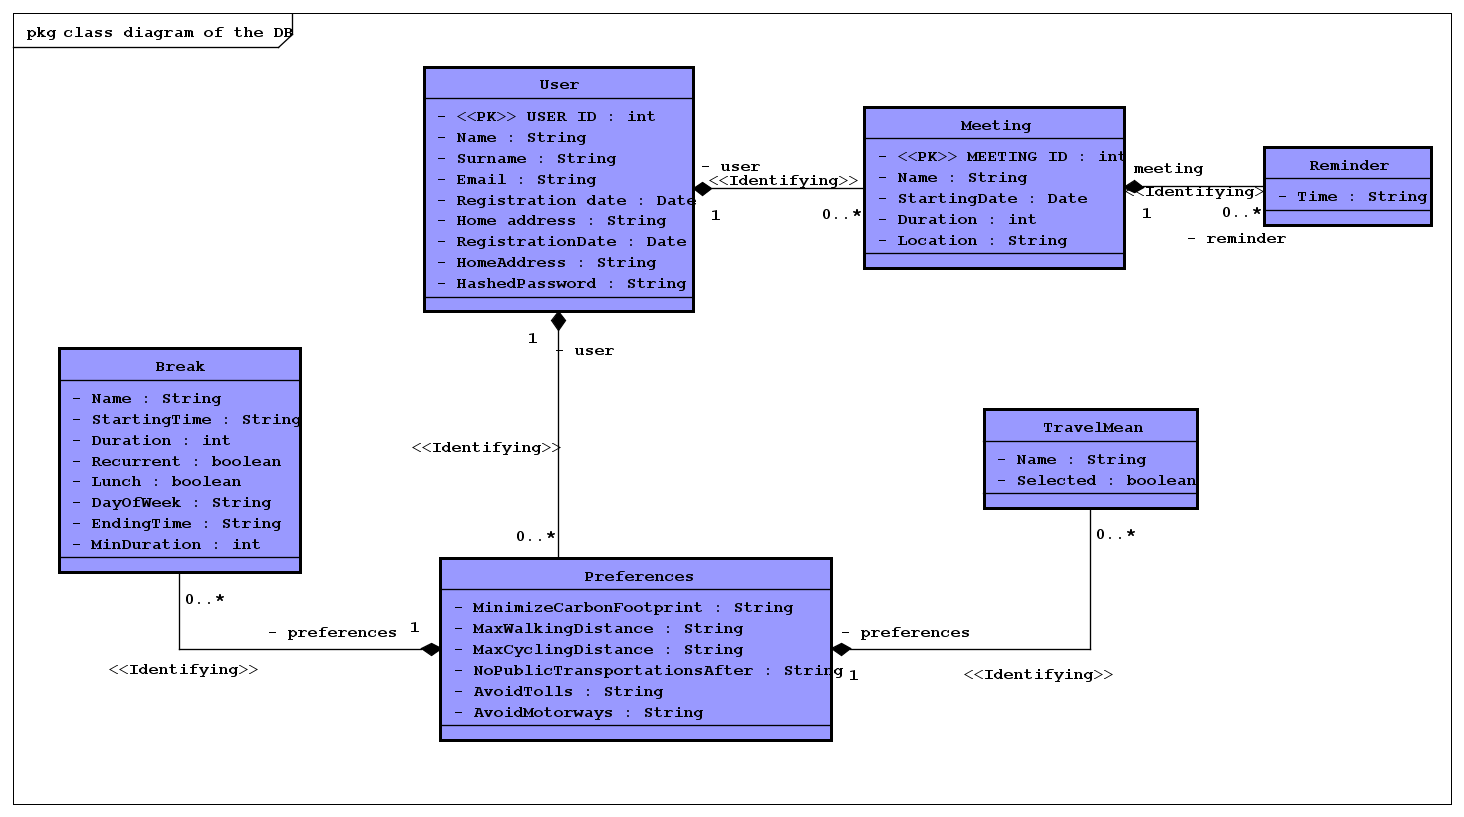
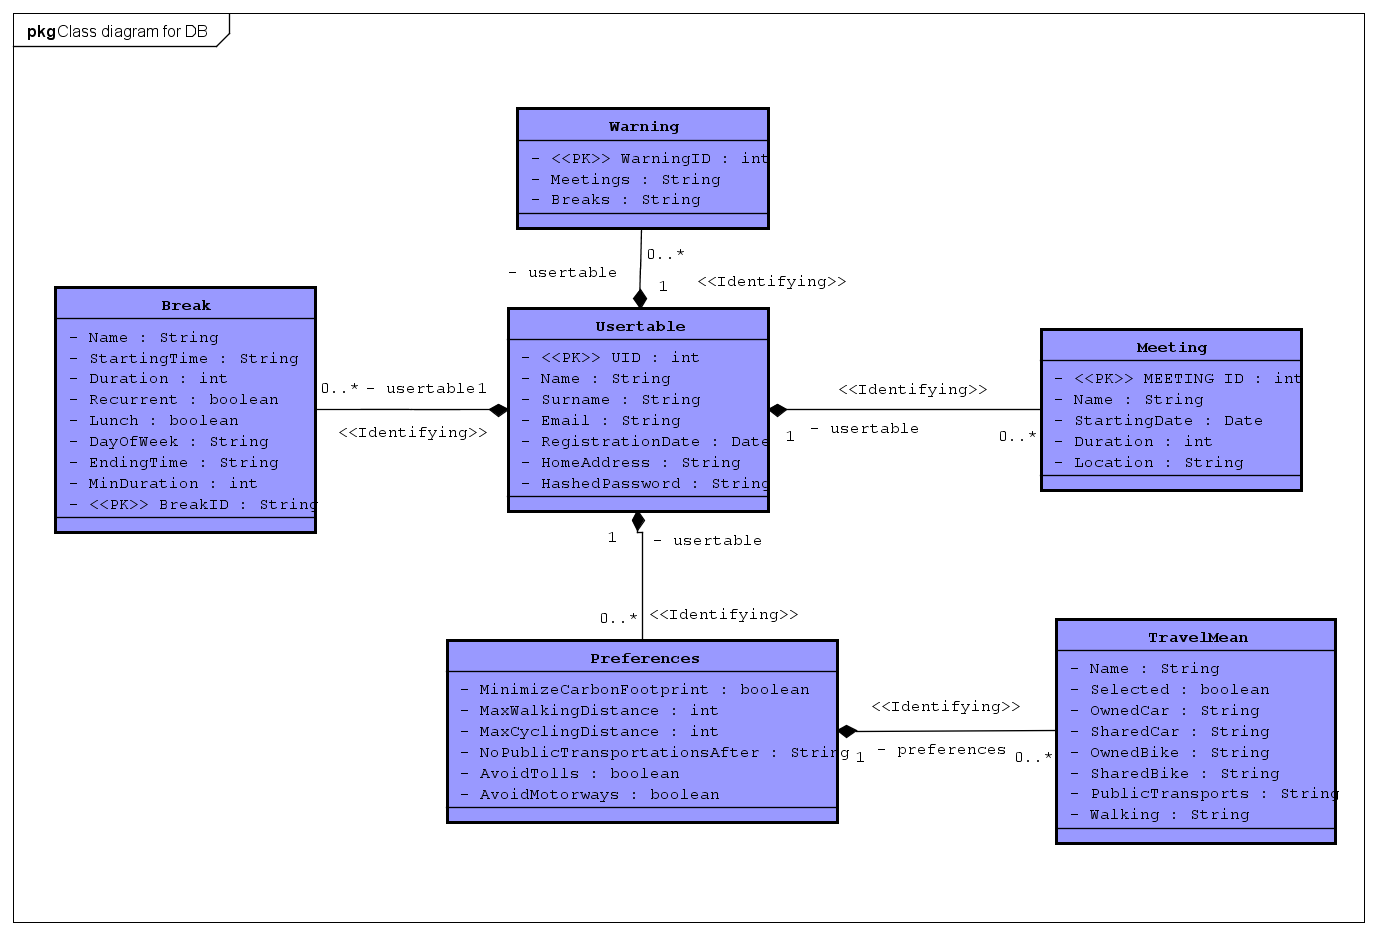
MODIFIED database ER in DD document

diff --git a/Travlendar/src/java/servlets/loginservlet.java b/Travlendar/src/java/servlets/loginservlet.java
@@ -8,9 +8,8 @@ package servlets;
 import entities.Break;
 import entities.Meeting;
 import entities.Usertable;
+import entities.Warning;
 import java.io.IOException;
-import java.io.PrintWriter;
-import java.time.LocalDate;
 import java.util.Calendar;
 import java.util.Date;
 import java.util.List;
@@ -23,6 +22,7 @@ import javax.servlet.http.HttpSession;
 import sessionbeans.BreakFacadeLocal;
 import sessionbeans.MeetingFacadeLocal;
 import sessionbeans.UsertableFacadeLocal;
+import sessionbeans.WarningFacadeLocal;
 import utils.SecureHashEncryption;
 
 /**
@@ -30,6 +30,9 @@ import utils.SecureHashEncryption;
  * @author Mirko
  */
 public class loginservlet extends HttpServlet {
+
+    @EJB
+    private WarningFacadeLocal warningFacade;
 
     private final static int breaksPrecomputation=8;
 
@@ -41,6 +44,8 @@ public class loginservlet extends HttpServlet {
 
     @EJB
     private UsertableFacadeLocal userFacade;
+    
+    
 
     /**
      * Processes requests for both HTTP <code>GET</code> and <code>POST</code>
@@ -81,18 +86,27 @@ public class loginservlet extends HttpServlet {
                 session.setAttribute("name", u.getName());
 
                 session.setAttribute("user", u);
+                
+                //WHEN THE USER LOGS IN WE HAVE TO CHECK WHETHER THERE ARE WARNINGS, IF THERE ARE EXECUTE THIS LINE
+                
+                List<Warning> warnings = warningFacade.getWarningsFromUID(u.getUid());
+                
+                if(warnings.size()>0)
+                    session.setAttribute("warningcolor", "red");
+                    
 
                 //GETTING EVERY MEETING THE USER HAS IN ORDER TO DISPLAY THEM IN THE CALENDAR HOMEPAGE
                 List<Meeting> meetings = meetingFacade.getMeetingsFromUID(u.getUid());
 
                 List<Break> breaks = breakFacade.getBreaksFromUID(u.getUid());
+                
+                
 
                 String mJSON = createMeetingJSON(meetings, breaks);
                 //session.setAttribute("meeeets", "{" + System.lineSeparator() + "title: 'qqqqqq'," + System.lineSeparator() + "start: '2017-11-01'" + System.lineSeparator() + "}");
                 session.setAttribute("meeeets", mJSON);
 
-                //WHEN THE USER LOGS IN WE HAVE TO CHECK WHETHER THERE ARE WARNINGS, IF THERE ARE EXECUTE THIS LINE
-                //session.setAttribute("warningcolor", "red");
+                
                 //for(Meeting me: meetings)
                 //System.out.println(me.getName());
                 session.setAttribute("uid", u.getUid());
@@ -107,18 +121,7 @@ public class loginservlet extends HttpServlet {
             }
         }
 
-        try (PrintWriter out = response.getWriter()) {
-            /* TODO output your page here. You may use following sample code. */
-            out.println("<!DOCTYPE html>");
-            out.println("<html>");
-            out.println("<head>");
-            out.println("<title>Servlet loginservlet</title>");
-            out.println("</head>");
-            out.println("<body>");
-            out.println("<h1>You successfully submitted your data into the database: name= " + request.getParameter("name") + "</h1>");
-            out.println("</body>");
-            out.println("</html>");
-        }
+        
     }
 
     /**

diff --git a/Travlendar/src/java/entities/Usertable.java b/Travlendar/src/java/entities/Usertable.java
@@ -43,6 +43,9 @@ import javax.xml.bind.annotation.XmlTransient;
     , @NamedQuery(name = "Usertable.findByHashedpassword", query = "SELECT u FROM Usertable u WHERE u.hashedpassword = :hashedpassword")})
 public class Usertable implements Serializable {
 
+    @OneToMany(cascade = CascadeType.ALL, mappedBy = "usertable")
+    private List<Warning> warningList;
+
     private static final long serialVersionUID = 1L;
     @Id
     @Basic(optional = false)
@@ -204,6 +207,15 @@ public class Usertable implements Serializable {
     @Override
     public String toString() {
         return "entities.Usertable[ uid=" + uid + " ]";
+    }
+
+    @XmlTransient
+    public List<Warning> getWarningList() {
+        return warningList;
+    }
+
+    public void setWarningList(List<Warning> warningList) {
+        this.warningList = warningList;
     }
     
 }

diff --git a/Travlendar/src/java/servlets/DeleteMeeting.java b/Travlendar/src/java/servlets/DeleteMeeting.java
@@ -33,7 +33,8 @@ public class DeleteMeeting extends HttpServlet {
         HttpSession session = request.getSession();
         String uid = session.getAttribute("uid").toString();
         
-        int meetingID = Integer.parseInt(request.getParameter("MeetingID"));
+        int meetingID=Integer.parseInt(request.getParameter("meetingid"));
+        //int meetingID = Integer.parseInt(request.getParameter("MeetingID"));
         
         MeetingPK mpk= new MeetingPK();
         mpk.setMeetingid(meetingID);

diff --git a/Travlendar/src/java/servlets/DisplayUpdateMeeting.java b/Travlendar/src/java/servlets/DisplayUpdateMeeting.java
@@ -32,7 +32,8 @@ public class DisplayUpdateMeeting extends HttpServlet {
         HttpSession session = request.getSession();
         String uid = session.getAttribute("uid").toString();
 
-        int mID = Integer.parseInt(request.getParameter("MeetingID"));
+        int mID=Integer.parseInt(request.getParameter("meetingid"));
+        //int mID = Integer.parseInt(request.getParameter("MeetingID"));
 
         MeetingPK mPK = new MeetingPK();
 

diff --git a/Travlendar/src/java/sessionbeans/PreferencesFacadeLocal.java b/Travlendar/src/java/sessionbeans/PreferencesFacadeLocal.java
@@ -15,7 +15,6 @@ import javax.ejb.Local;
  */
 @Local
 public interface PreferencesFacadeLocal {
-    
 
     void create(Preferences preferences);
 
